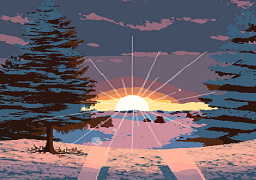
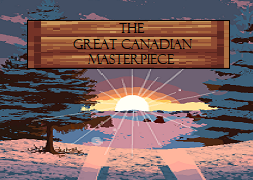
Title Screen + Go7 Blurb done.

diff --git a/pyxel-master/pyxel/title.py b/pyxel-master/pyxel/title.py
@@ -1,0 +1,65 @@
+import pyxel
+import time
+
+class Option:
+    def __init__(self, x, y, side, color):
+        self.x = x
+        self.y = y
+        self.side = side
+        self.color = color
+
+class App:
+    def __init__(self):
+        pyxel.init(256, 256, caption="Title", fullscreen=True)
+        pyxel.image(0).load(0, 0, "assets/group_of_seven.jpg")
+        pyxel.image(1).load(0, 0, "assets/sunset.png")
+        pyxel.image(2).load(0, 0, "assets/title.png")
+        
+        pyxel.mouse(True)
+
+        self.option1 = Option(2,200,5,12)
+        self.option2 = Option(102,200,5,12)
+        
+        self.blurbText = 0
+
+        # EVERYTHING MUST BE ABOVE THIS LINE
+        pyxel.run(self.update, self.draw)
+        
+    def update(self):
+        if pyxel.btnp(pyxel.KEY_Q):
+            pyxel.quit()
+        if pyxel.btnp(pyxel.KEY_ENTER):
+            # transition
+            self.blurbText = 1
+
+    def draw(self):
+        # CLEAR SCREEN
+        pyxel.cls(0)
+
+        # BACKGROUND
+        # blt(x, y, img, u, v, w, h, [colkey]) colkey is optional
+        pyxel.blt(0, 0, 1, 0, 0, 256, 256)
+        # DRAW BLACK TEXTBOX
+        # rect(x, y, w, h, col)
+        pyxel.text(0, 190,
+        """
+              Press ENTER to begin your adventure...
+        """, 7)
+
+
+        if(self.blurbText == 1):
+        # TEXT
+            pyxel.blt(0, 0, 0, 0, 0, 256, 256)
+            pyxel.text(0, 185, 
+        """
+        A group of Canadian artists built their fame across 
+         Canada for their paintings inspired by Canada's
+            beautiful landscape. Famously known as the
+          'Group of Seven,' they have left their legacy
+            in their world through their masterpieces. 
+        But unbeknownst to some others, there was an eighth 
+           person, one who aspired to leave their mark 
+                  on Canadian soil as well.
+                  """, 7)
+    
+App()
